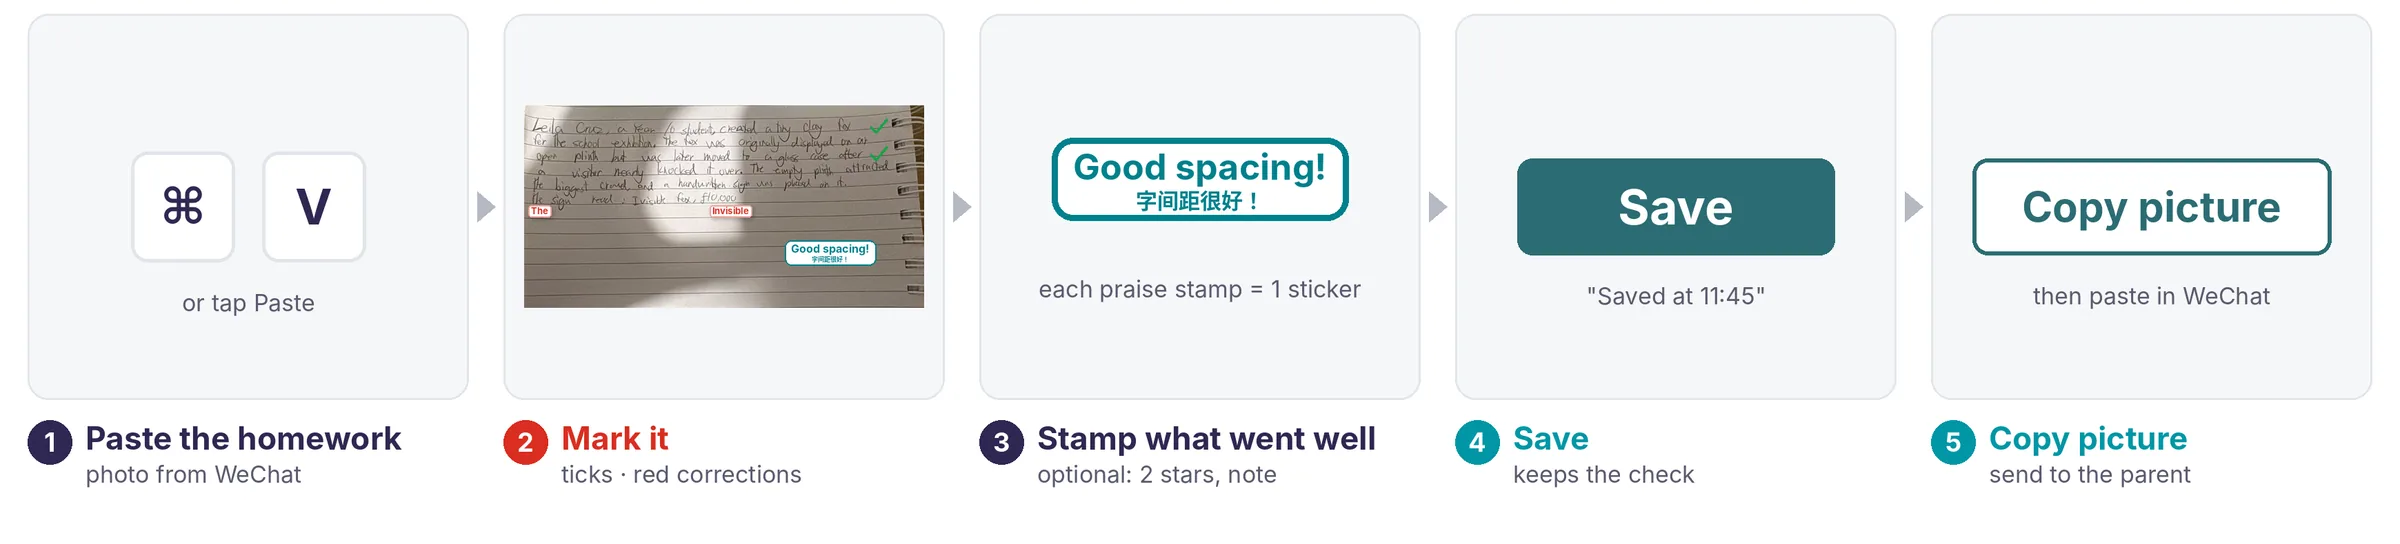
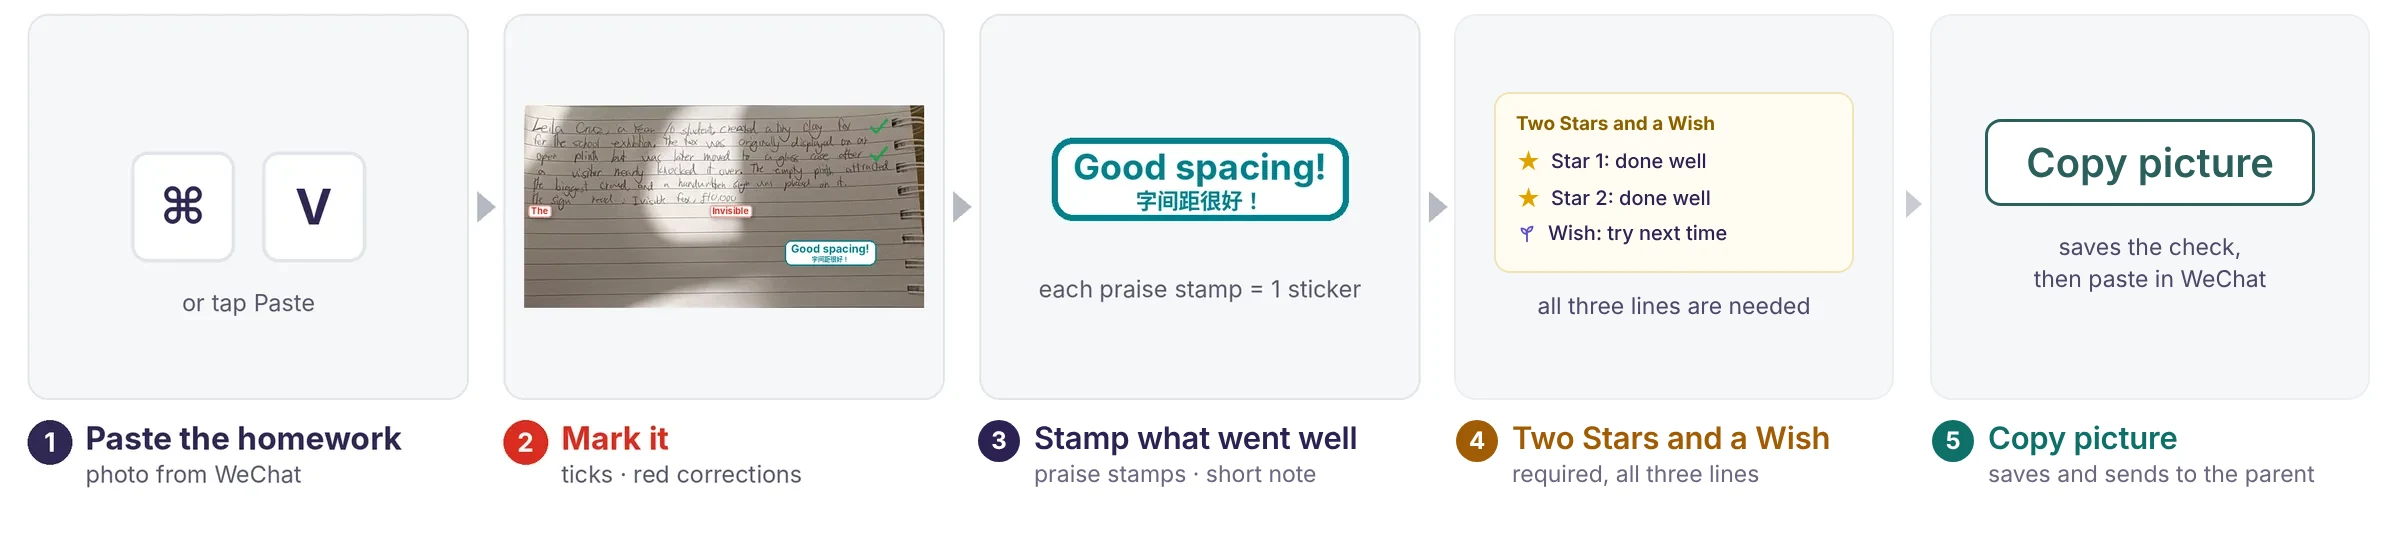
Check Homework guide: five steps now end with Two Stars and a Wish (required) and Copy picture (saves the check); checklist updated
Claude-Session: https://claude.ai/code/session_01Ux2UHZe4Ai1cLRPH1s1RdJ

diff --git a/guides/guides.js b/guides/guides.js
@@ -1,7 +1,7 @@
 /* 2885 · Teacher guides (Misty 25 Nov): one place for every "how to".
    To add or update a guide, edit this list only. `updated` shows a "New" or "Updated" badge for 14 days. */
 window.COE_GUIDES=[
- {id:'check-homework',title:'Check Homework',cat:'Homework',icon:'check',updated:'2026-11-25T12:10',
+ {id:'check-homework',title:'Check Homework',cat:'Homework',icon:'check',updated:'2026-11-25T19:00',
   sum:'Mark a photo of homework and send the parent a picture.',open:'../homework/',cover:'img/cover-check.webp',mins:2,
   rule:'Type corrections in RED, beside the mistake. Only red counts as "To fix" for the parent.',
   parts:[
@@ -10,7 +10,7 @@ window.COE_GUIDES=[
    {h:'Five steps, photo to parent',img:'img/flow.webp'},
    {h:'Red, not blue or green',red:1,p:'Blue and green are for comments and praise only.',img:'img/redblue.webp'},
    {h:'Typing a correction in four taps',p:'Put it just below or beside the word, never on top. Double-click a tag to change its words.',img:'img/typing.webp'},
-   {h:'Before you send',list:['Every correction is red and beside the mistake','"To fix" matches the mistakes you marked','You tapped Save and saw "Saved at…"','You pasted the picture, not a screenshot of the screen']}
+   {h:'Before you send',list:['Every correction is red and beside the mistake','"To fix" matches the mistakes you marked','Two Stars and a Wish has all three lines filled in','You tapped Copy picture and saw "Saved to … homework" (Copy picture saves the check for you)','You pasted the picture, not a screenshot of the screen']}
   ]},
  {id:'trial-feedback',title:'Trial Class Feedback',cat:'Classes',icon:'star',updated:'2026-11-25T13:20',mins:3,
   sum:'Fill in the trial report: fair ratings, real examples and the best-fitting book.',
